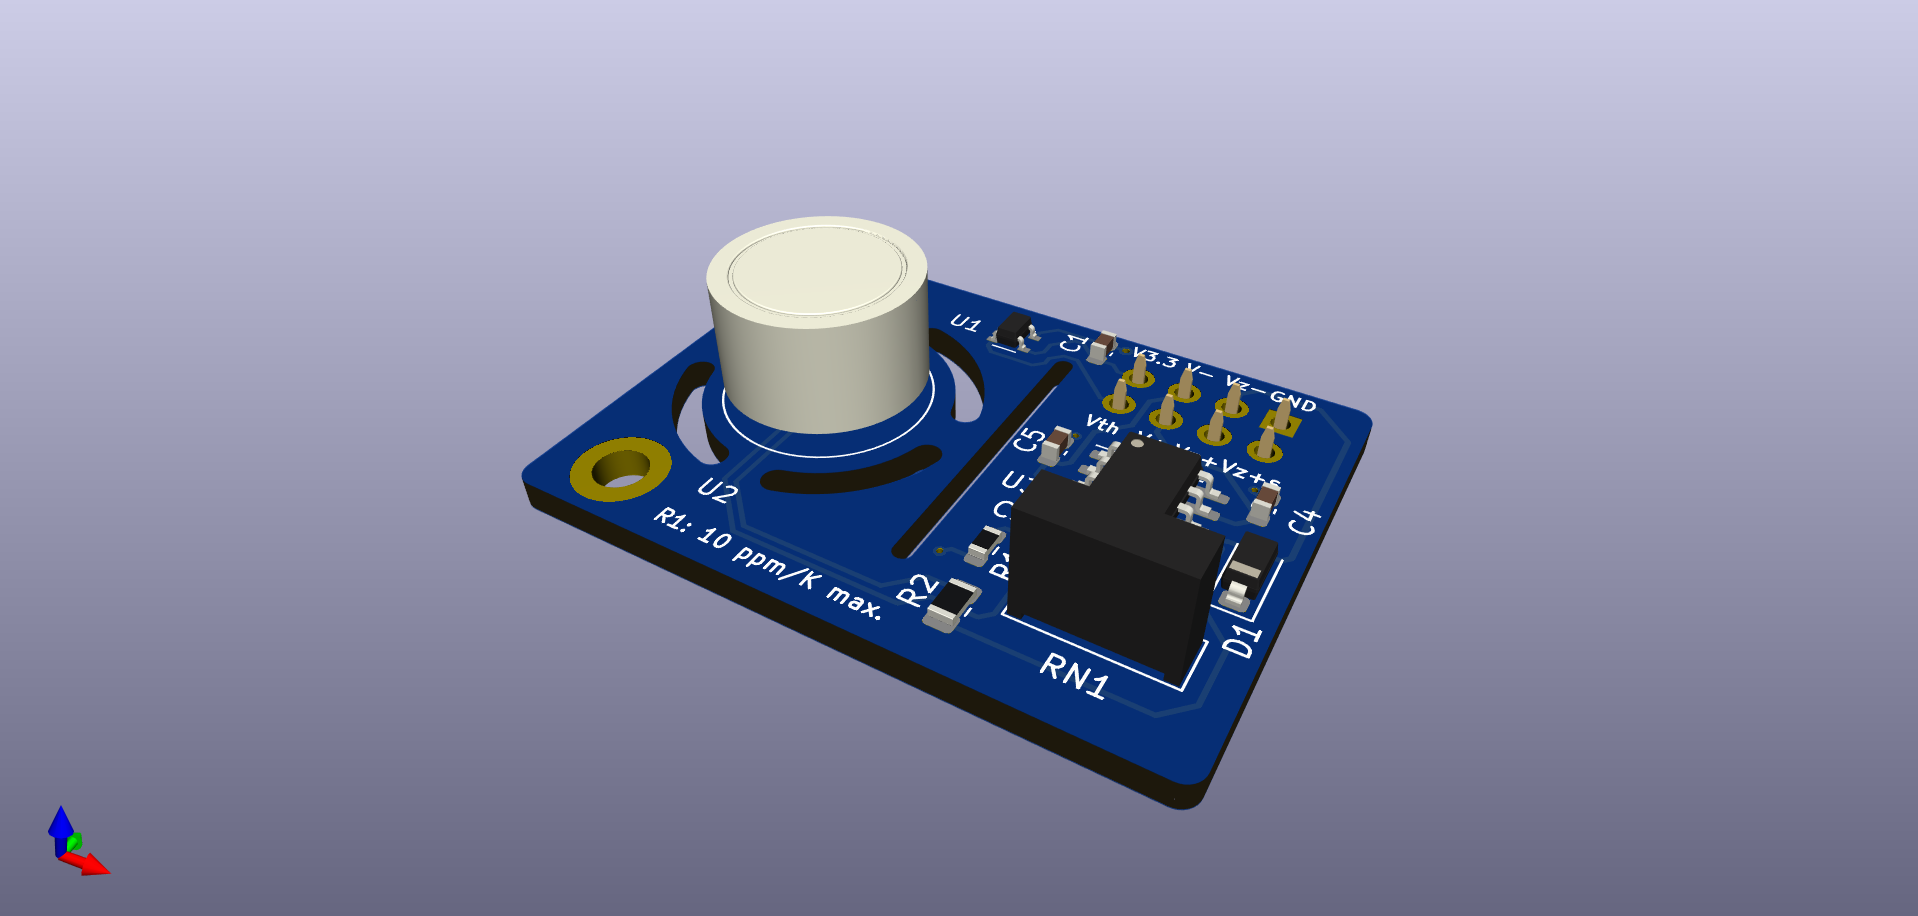
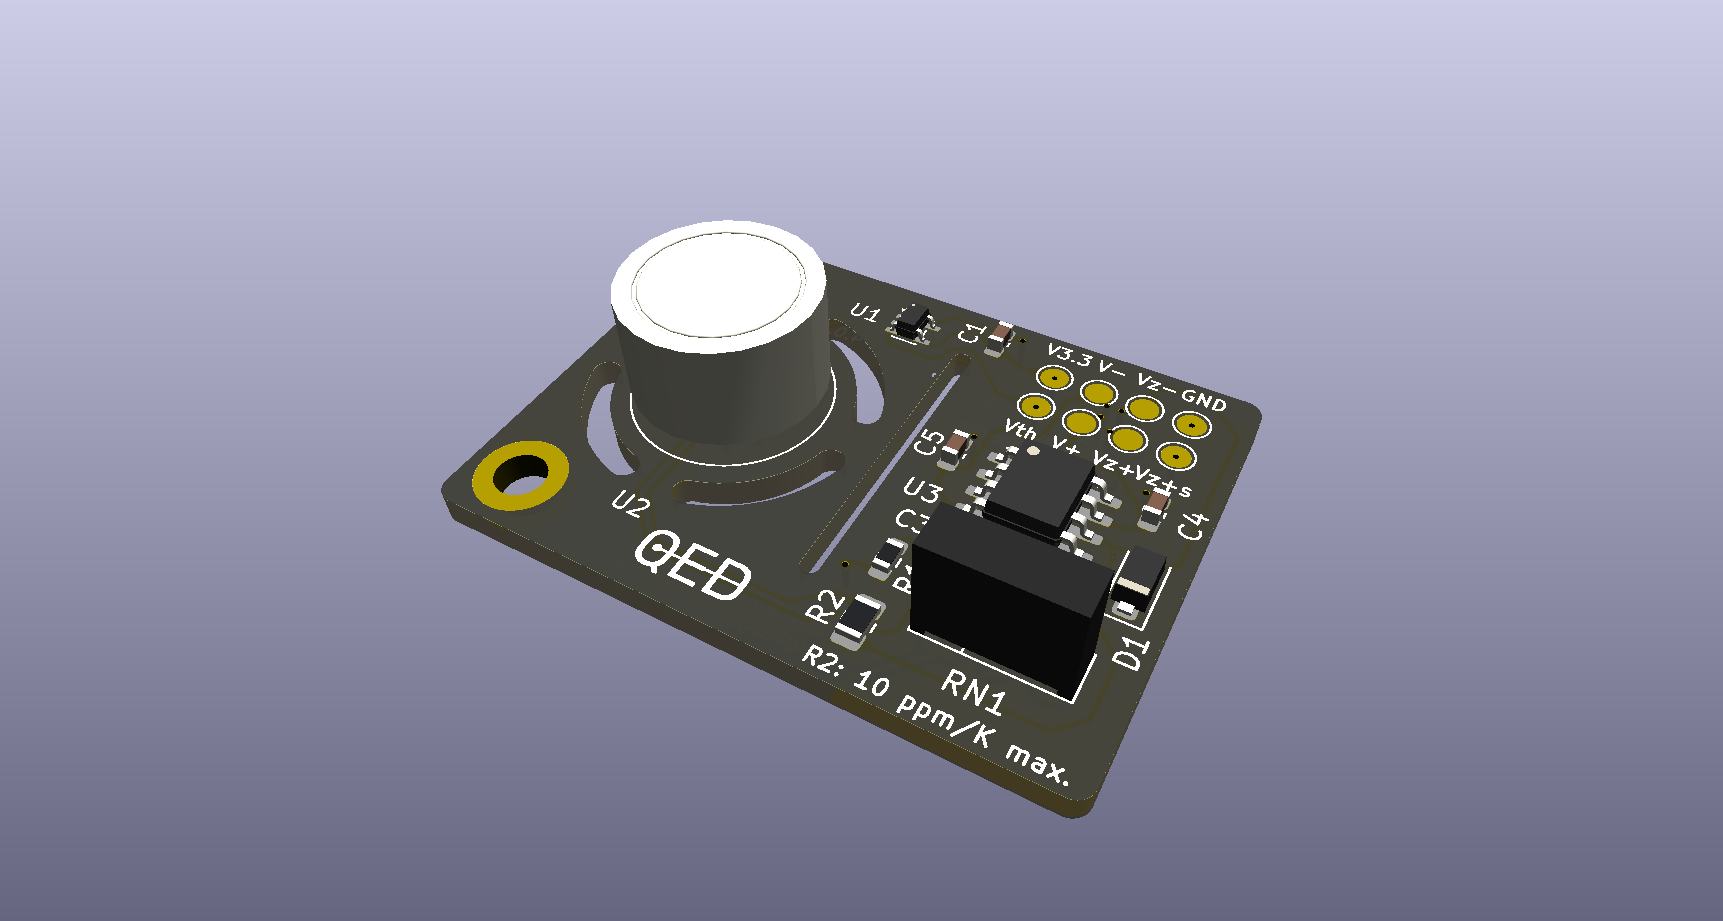
Update readme

Changed region(s): [[0.2461, 0.214, 0.7382, 0.8865], [0.0, 0.8865, 0.0615, 0.9782]]

diff --git a/README.md b/README.md
@@ -1,19 +1,19 @@
 [![GitHub release](https://img.shields.io/github/release/TU-Darmstadt-APQ/Voltage_reference.svg)](https://github.com/TU-Darmstadt-APQ/Voltage_reference/releases/latest)
 [![Build manufacturing files](https://github.com/TU-Darmstadt-APQ/Voltage_reference/actions/workflows/ci.yml/badge.svg)](https://github.com/TU-Darmstadt-APQ/Voltage_reference/actions/workflows/ci.yml)
 ![License: CERN-OHL-W-2.0](https://img.shields.io/github/license/TU-Darmstadt-APQ/Voltage_reference?color=blue)
-# LM399 Sub-ppm Reference Voltage
+# ADR1399 Sub-ppm Reference Voltage
 
 This repository contains the KiCAD PCB project files for a sub-ppm temperature coefficient __negative voltage reference__ used in the [digital laser driver design](https://github.com/TU-Darmstadt-APQ/DgDrive).
 
-![LM399 reference board](images/board.png)
+![ADR1399 reference board](images/board.png)
 
 ## Circuit description
 
-![LM399 reference board circuit](images/reference_board_circuit.png)
+![ADR1399 reference board circuit](images/reference_board_circuit.png)
 
-This circuit utilizes the excellent [LM399](https://www.analog.com/en/products/lm399.html) voltage reference and outputs an amplified voltage of either -10 V or -15 V. There is no option to trim the output voltage as the absolute value is not that important, but stability is. The output voltage will be 10 V / 15 V __below__ the positive pin of the Zener diode.
+This circuit utilizes the excellent [ADR1399](https://www.analog.com/en/products/adr1399.html)/[LM399](https://www.analog.com/en/products/lm399.html) voltage reference and outputs an amplified voltage of either -10 V or -15 V. There is no option to trim the output voltage as the absolute value is not that important, but stability is. The output voltage will be 10 V / 15 V __below__ the positive pin of the Zener diode.
 
-The design is a self-biased circuit, which means the Zener diode bias current is produced by the Zener voltage and therefore as stable as the reference (neglecting the influence of the bias current on the Zener voltage as it is negligible). In order to keep the Zener self-heating of the diode as low possible, a Zener current of a little more than 1 mA was chosen for the  [LM399](https://www.analog.com/en/products/lm399.html).
+The design is a self-biased circuit, which means the Zener diode bias current is produced by the Zener voltage and therefore as stable as the reference (neglecting the influence of the bias current on the Zener voltage as it is negligible). In order to keep the Zener self-heating of the diode as low possible, a Zener current of a little more than 3 mA was chosen for the [ADR1399](https://www.analog.com/en/products/adr1399.html).
 
 Reference table for choosing the resistor values:
 
@@ -24,7 +24,7 @@ Reference table for choosing the resistor values:
 
 Different values are possible as well, but these values were readily available on Farnell/Mouser. When choosing a value for R1, choose a value as close as possible but always __less than or equal__ to the value given. This ensures, that the Zener current is at least 1 mA.
 
-Single supply operation is possible as long the output voltage is larger than 0.1 V.
+Single supply operation is possible as long the output voltage is larger than 0.1 V (referenced to GND).
 
 ## Design Files
 ### For production
@@ -44,7 +44,7 @@ Two variants of the design files are provided for the user. There is a so-called
 The default variant contains the full set of components and should be used for hand assembly when a set of binned and tested components is available. It includes both the Zener reference and resistive divider which need to be tested for popcorn noise and drift before installation.
 
 ##### PCBA variant
-The PCBA variant should be used when sending the boards to the PCB manufacturer for assembly as they do not contain the [LM399](https://www.analog.com/en/products/lm399.html)/[ADR1399](https://www.analog.com/en/products/adr1399.html) Zener reference and the precision resistor array to amplify the output voltage. These components need to be binned prior to installation and should therefore not be placed by the board house.
+The PCBA variant should be used when sending the boards to the PCB manufacturer for assembly as they do not contain the [ADR1399](https://www.analog.com/en/products/adr1399.html)/[LM399](https://www.analog.com/en/products/lm399.html) Zener reference and the precision resistor array to amplify the output voltage. These components need to be binned prior to installation and should therefore not be placed by the board house.
 
 ### For editing
 To work on the [KiCad](https://www.kicad.org/) design files, a number of external libraries are needed. Those libraries show up as empty folders in the zip file, because they are not included in the release, but must be downloaded separately from the links given [below](#related-repositories). This can be avoided by checking out the whole repository using git. This way the libraries will be downloaded as well. Use the following command to clone the git repository along with the submodules  using the `--recurse-submodules` flag.
@@ -60,7 +60,7 @@ See the following repositories for more information as these are part of the [de
 - [KiCAD schematic libraries](https://github.com/PatrickBaus/KiCad-libraries)
 
 ## Versioning
-I use [SemVer](http://semver.org/) for versioning. For the versions available, see the [tags](../../tags) available for this repository.
+We use [SemVer](http://semver.org/) for versioning. For the versions available, see the [tags](../../tags) available for this repository.
 
 - MAJOR versions in this context mean a breaking change to the external interface of the hardware like different connectors or functions.
 - MINOR versions contain changes to the hardware that only affect the inner workings of the circuit, but otherwise the performance is unaffected.
